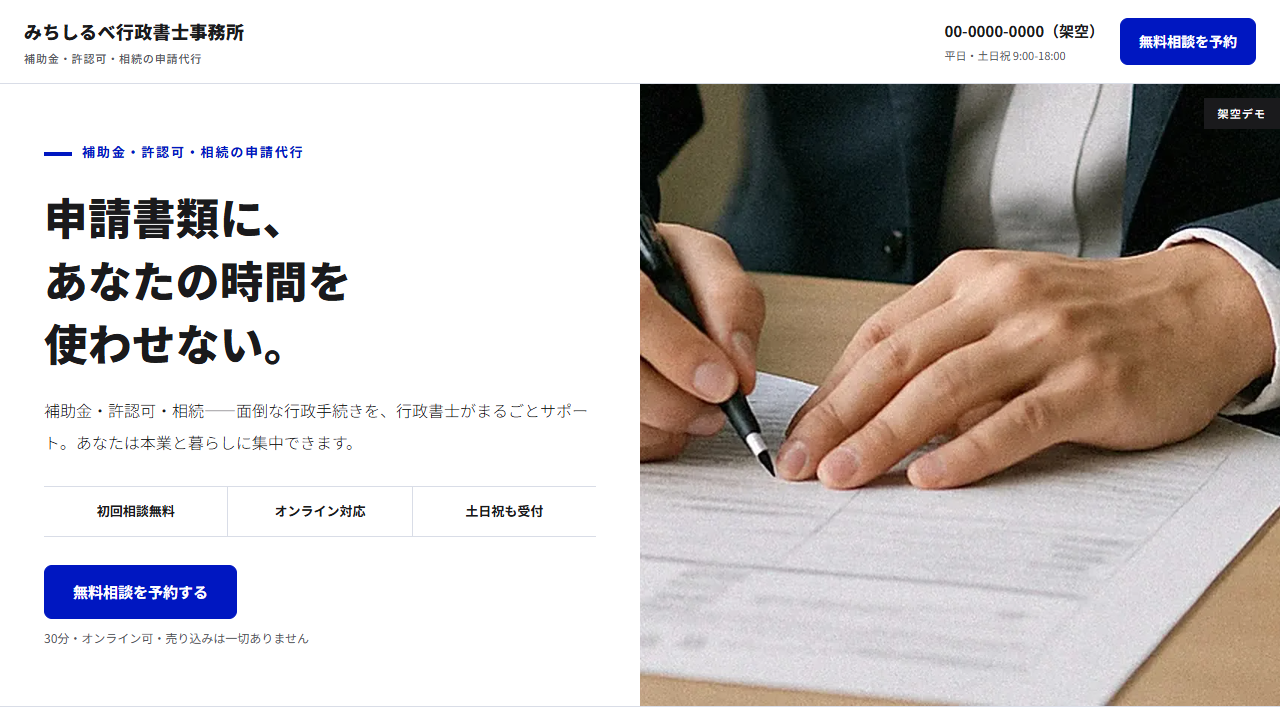
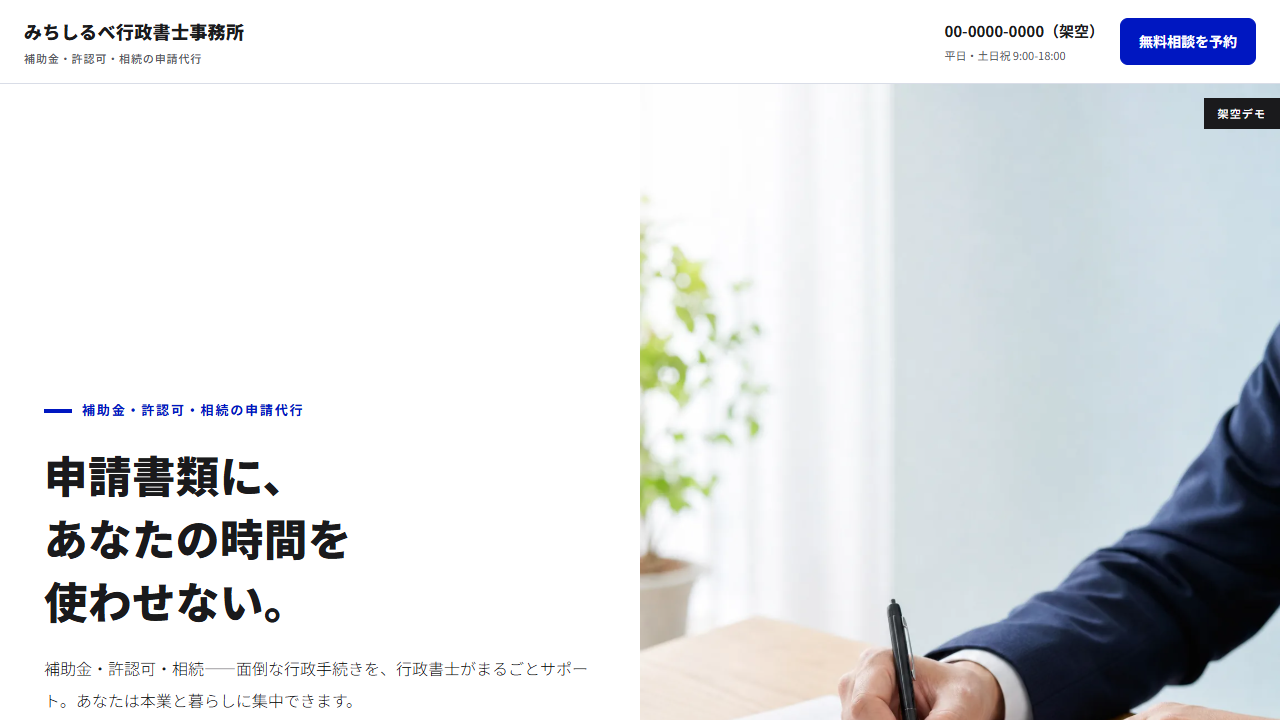
みちしるべLPのヒーロー画像をAI新規生成の手元カットへ差し替え
顔出しのポートレートから、申請書類・印鑑・朱肉を配した手元のクローズアップへ変更（本人指示）。
暫定対応だった旧画像の切り出しを、GPT Image 2.0で生成した正規の縦位置画像に置き換え、
PC・スマホそれぞれの表示位置を調整。ハブのプレビュー画像も再生成。

diff --git a/michishirube/index.html b/michishirube/index.html
@@ -54,7 +54,7 @@ h1 .bw{display:inline-block}
 .hero-action{margin-top:28px}
 .cta-note{font-size:12px;color:#55565C;margin-top:8px}
 .hero-photo{position:relative;overflow:hidden}
-.hero-photo img{width:100%;height:100%;object-fit:cover;object-position:38% 55%}
+.hero-photo img{width:100%;height:100%;object-fit:cover;object-position:50% 56%}
 .demo-ribbon{position:absolute;top:14px;right:0;background:var(--ink);color:#fff;font-size:11px;font-weight:500;letter-spacing:.1em;padding:5px 14px}
 
 /* ---- sections ---- */
@@ -144,7 +144,7 @@ footer .demo-note{font-weight:700;color:var(--ink);margin-bottom:6px}
   .eyebrow{margin-bottom:12px}
   h1{font-size:27px}
   .hero-photo{order:-1;height:30vh;min-height:210px}
-  .hero-photo img{object-position:45% 55%}
+  .hero-photo img{object-position:50% 58%}
   section{padding:48px 20px}
   h2{font-size:24px;margin-bottom:28px}
   .services{grid-template-columns:1fr;grid-template-rows:auto}
@@ -203,7 +203,7 @@ p,li,dt,dd{text-wrap:pretty}
     </div>
     <div class="hero-photo">
       <!-- 2026-08-11 差し替え: 人物顔出しをやめ、申請書類に記入する手元のクローズアップに変更（本人指示）。旧画像は assets/hero-portrait-backup.webp -->
-      <img src="assets/hero.webp" alt="申請書類に記入する行政書士の手元のイメージ（AI生成）" width="2048" height="832">
+      <img src="assets/hero.webp" alt="申請書類に記入する行政書士の手元のイメージ（AI生成）" width="1152" height="2048">
       <span class="demo-ribbon">架空デモ</span>
     </div>
   </div>
